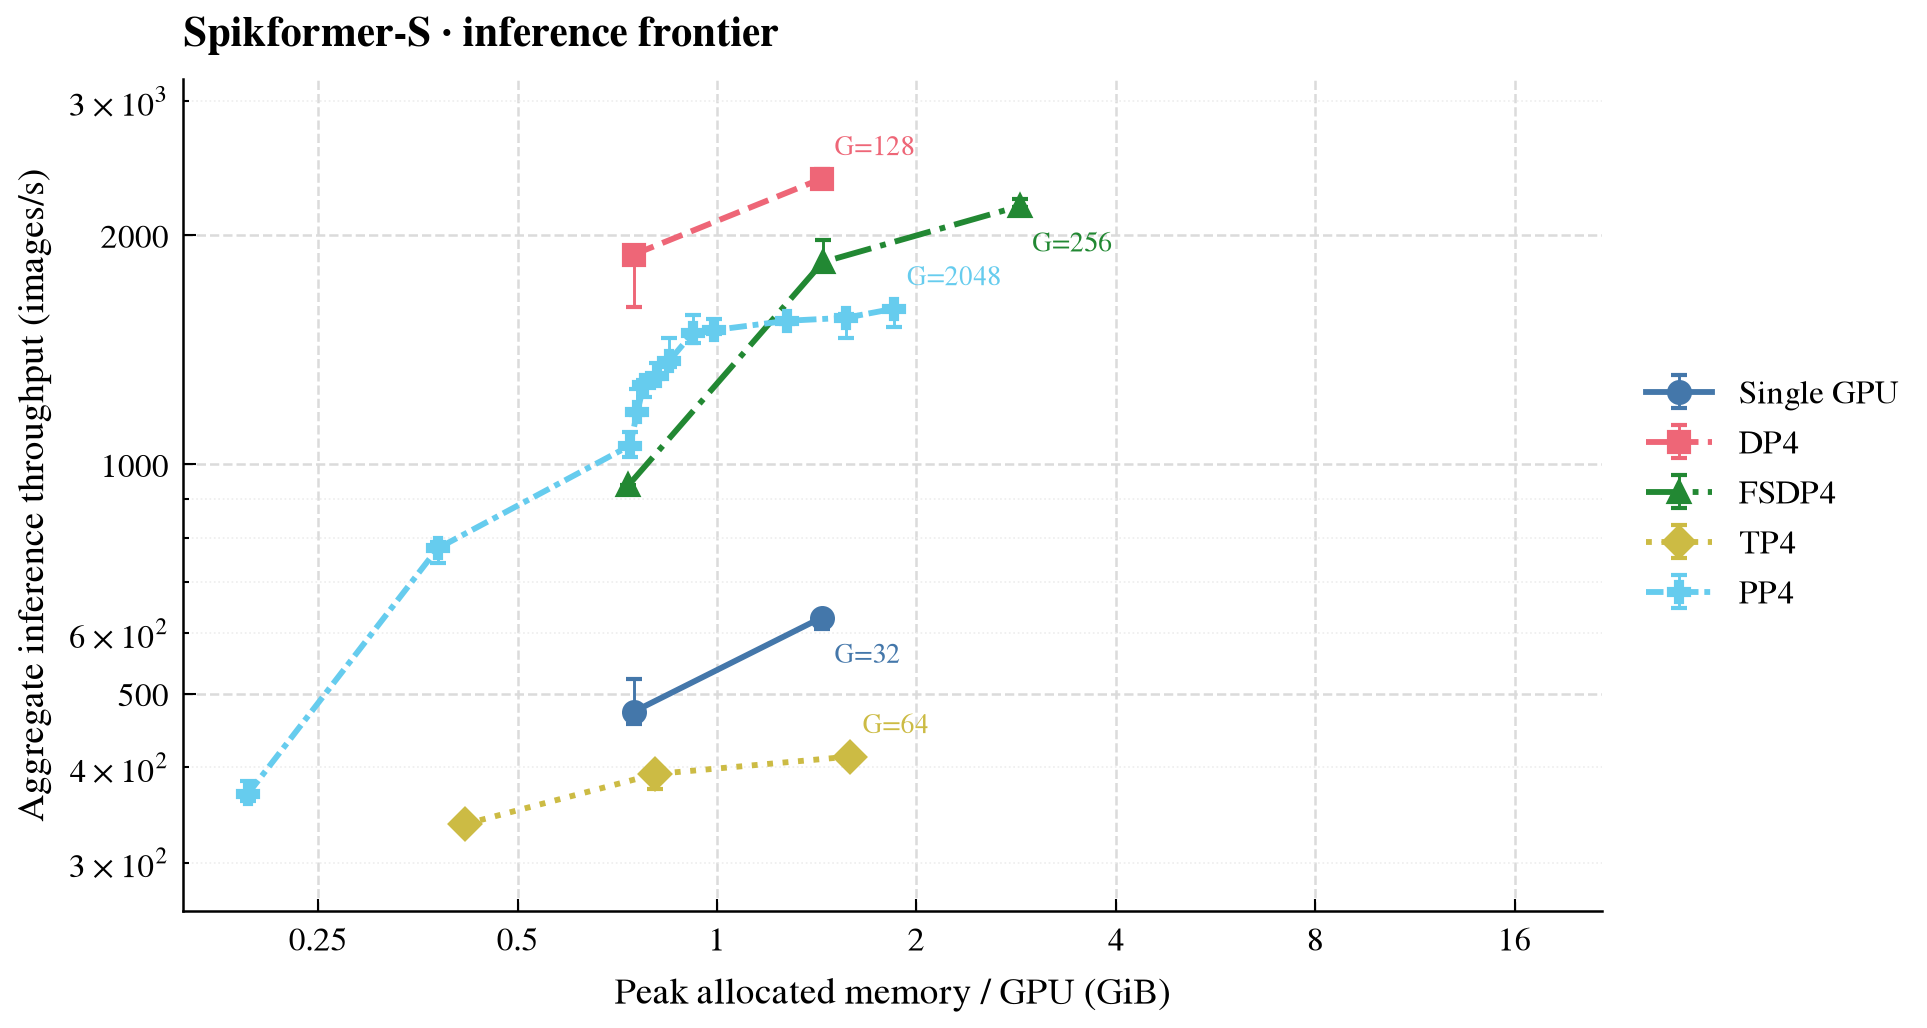
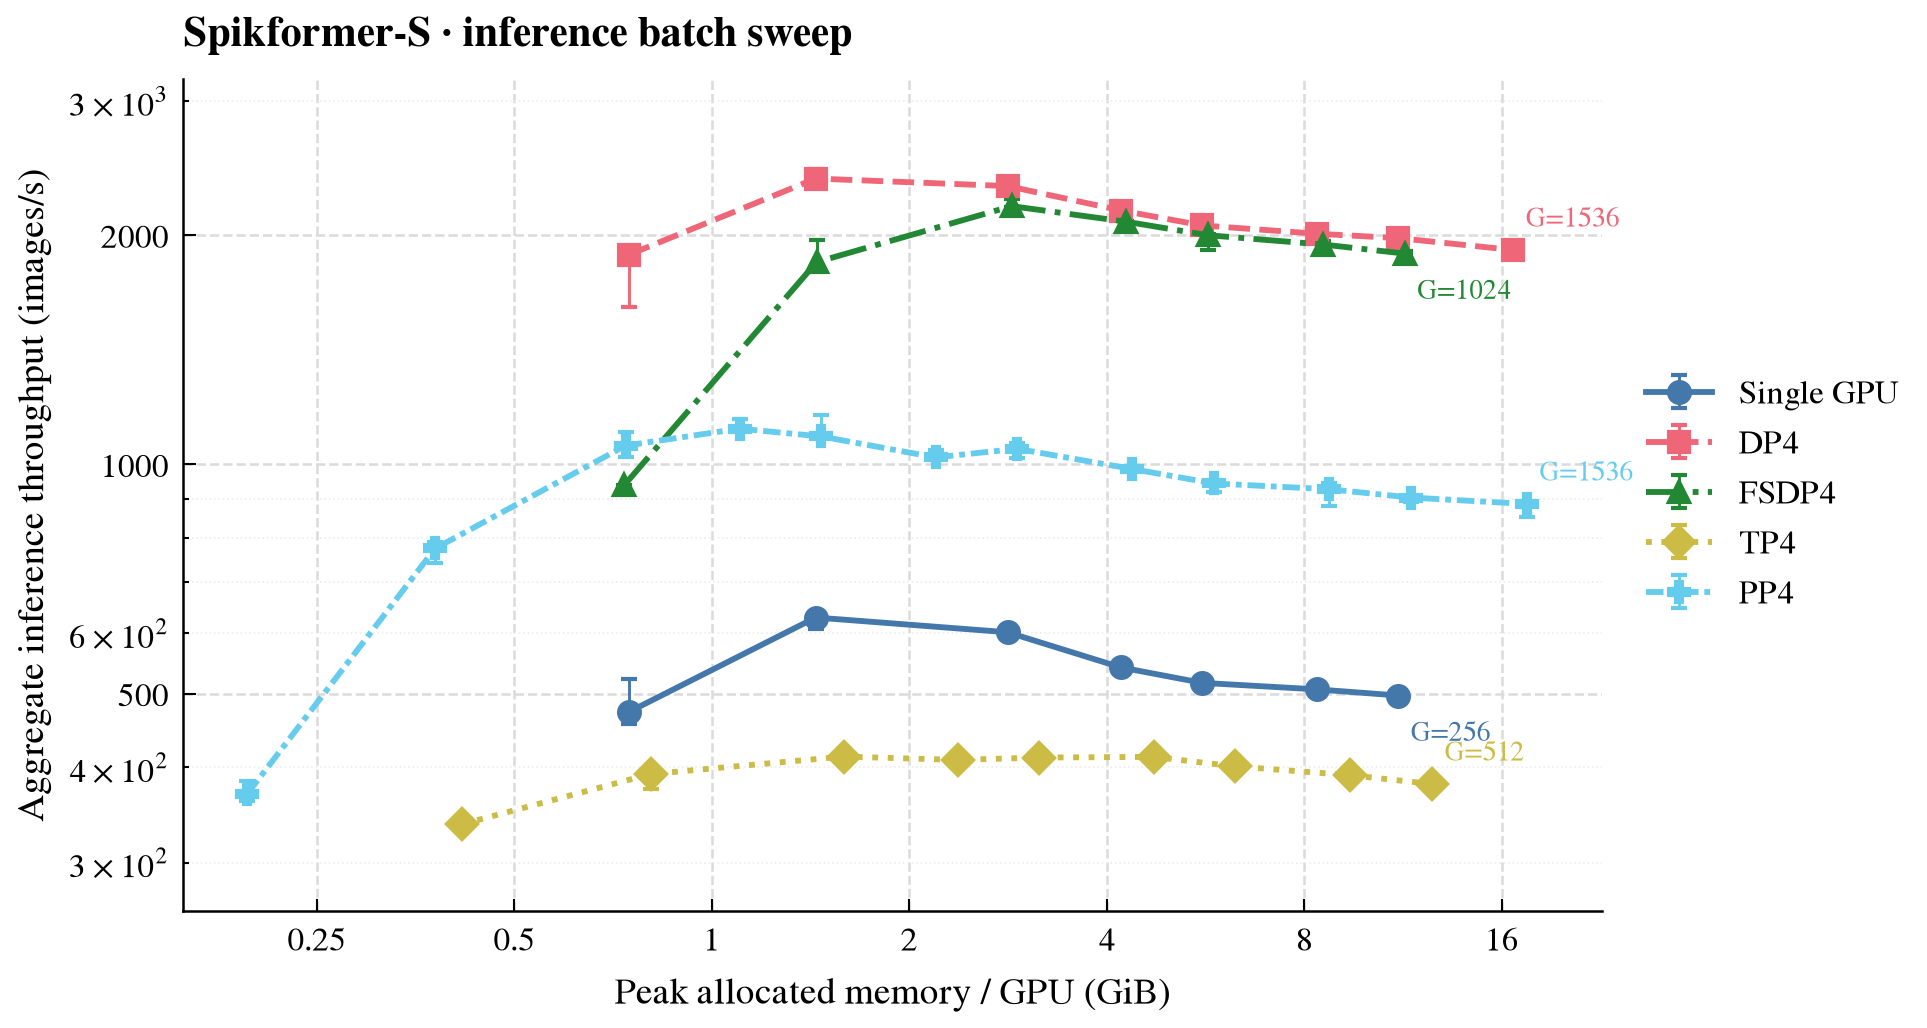
fix(distributed): unify vision pipeline inference sweeps

diff --git a/benchmark/plot_distributed_inference.py b/benchmark/plot_distributed_inference.py
@@ -11,7 +11,7 @@ from statistics import median
 VISION_NAME = re.compile(
     r"(?P<model>sew-resnet34|spikformer)_"
     r"(?P<topology>serial|dp4|fsdp4|tp4|pp4)_"
-    r"b(?P<batch>\d+)_r\d+_optimized"
+    r"b(?P<batch>\d+)_r\d+_optimized(?P<protocol>_k4)?"
 )
 VISION_PROBE_NAME = re.compile(
     r"(?P<model>sew-resnet34|spikformer)_"
@@ -89,7 +89,7 @@ def _vision_topology(topology: str, batch_size: int) -> tuple[int, int, int, int
     data_size = 4 if topology in {"dp4", "fsdp4"} else 1
     tensor_size = 4 if topology == "tp4" else 1
     pipeline_size = 4 if topology == "pp4" else 1
-    microbatches = max(4, batch_size // 16) if pipeline_size > 1 else 1
+    microbatches = 4 if pipeline_size > 1 else 1
     return data_size, tensor_size, pipeline_size, microbatches
 
 
@@ -131,6 +131,8 @@ def _load_vision(results: Path) -> list[dict]:
         match = VISION_NAME.fullmatch(log.stem)
         if match is None:
             continue
+        if match["topology"] == "pp4" and match["protocol"] is None:
+            continue
         status = int(Path(f"{log}.status").read_text().strip())
         text = log.read_text(encoding="utf-8")
         metrics = (
@@ -147,11 +149,7 @@ def _load_vision(results: Path) -> list[dict]:
         completed = [metrics for status, metrics, _ in runs if status == 0]
         status_codes = [status for status, _, _ in runs]
         if len(completed) == 3:
-            status = (
-                "capacity_probe_completed"
-                if topology == "pp4" and batch_size >= 4096
-                else "completed"
-            )
+            status = "completed"
         elif completed:
             status = "unstable"
         elif any(
@@ -185,12 +183,8 @@ def _load_vision(results: Path) -> list[dict]:
             "throughput_unit": "images/s",
             "memory_metric": "cuda_peak_allocated",
             "notes": (
-                (
-                    "one measured batch; no warmup; "
-                    if topology == "pp4" and batch_size >= 4096
-                    else "five warmup and ten measured batches; "
-                )
-                + f"exit statuses: {','.join(map(str, sorted(status_codes)))}"
+                "five warmup and ten measured batches; "
+                f"exit statuses: {','.join(map(str, sorted(status_codes)))}"
             ),
         }
         if len(completed) == 3:
@@ -213,7 +207,7 @@ def _load_vision(results: Path) -> list[dict]:
         rows.append(row)
     for log in (results / "vision").glob("*_probe.log"):
         match = VISION_PROBE_NAME.fullmatch(log.stem)
-        if match is None:
+        if match is None or match["topology"] == "pp4":
             continue
         exit_status = int(Path(f"{log}.status").read_text().strip())
         text = log.read_text(encoding="utf-8")
@@ -487,13 +481,13 @@ def _plot_vision(rows: list[dict], output: Path) -> None:
         ):
             figure, axis = plt.subplots(figsize=(6.1, 3.6))
             for index, topology in enumerate(TOPOLOGY_ORDER):
-                points = _pareto_frontier(
-                    [
+                points = sorted(
+                    (
                         row
                         for row in model_rows
                         if row["topology"] == topology and row["status"] == "completed"
-                    ],
-                    memory_resolution_gib=0.001,
+                    ),
+                    key=lambda row: row["global_batch_size"],
                 )
                 lines = axis.errorbar(
                     [point["peak_memory_gib_median"] for point in points],
@@ -535,7 +529,7 @@ def _plot_vision(rows: list[dict], output: Path) -> None:
             axis.set_xlabel("Peak allocated memory / GPU (GiB)")
             axis.set_ylabel("Aggregate inference throughput (images/s)")
             axis.set_title(
-                f"{model} · inference frontier",
+                f"{model} · inference batch sweep",
                 loc="left",
                 fontweight="bold",
                 pad=8,

diff --git a/test/activation_based/test_distributed_inference.py b/test/activation_based/test_distributed_inference.py
@@ -8,7 +8,11 @@ import pytest
 import torch
 from torch.utils.data import Dataset
 
-from benchmark.plot_distributed_inference import _load_sglang, _pareto_frontier
+from benchmark.plot_distributed_inference import (
+    _load_sglang,
+    _pareto_frontier,
+    _vision_topology,
+)
 from benchmark.snn_llm.spikelm import SpikeLMConfig
 from spikingjelly.activation_based.distributed.llm import (
     EvaluationConfig,
@@ -45,6 +49,11 @@ def test_inference_plot_uses_pareto_frontier():
     ]
 
     assert _pareto_frontier(points) == [points[1], points[4]]
+
+
+@pytest.mark.parametrize("batch_size", [16, 64, 96, 512, 2048])
+def test_vision_pipeline_benchmark_fixes_microbatch_count(batch_size):
+    assert _vision_topology("pp4", batch_size) == (1, 1, 4, 4)
 
 
 def test_sglang_plot_accepts_seven_repeat_median(tmp_path):

diff --git a/docs/source/tutorials/en/distributed_training.rst b/docs/source/tutorials/en/distributed_training.rst
@@ -869,20 +869,15 @@ Triton 3.4.0.
 Vision used BF16, ``T=4``, 1000 classes, and cached 224 x 224 synthetic images.
 The non-PP SEW-ResNet34 per-rank grid is
 ``16, 32, 64, 96, 128, 192, 256, 384, 512, 768, 1024``; Spikformer-S stops
-between 384 and 1024 according to OOM. PP4 also measures ``1536, 2048`` and then
-uses single-batch probes for its capacity boundary. Each successful throughput
+between 384 and 1024 according to OOM. PP4 fixes K=4. The SEW-ResNet34 L grid is
+``16, 32, 64, 96, 128, 192, 256, 384, 512, 768, 1024, 1536, 2048, 3072``;
+Spikformer-S follows the same grid through ``1536``. Each successful throughput
 point starts in a fresh process and uses four
 DataLoader workers, runs five untimed batches and ten measured batches, and is repeated independently three
 times. Timing includes H2D, forward, communication, and metric reduction but
-excludes DataLoader work, model/artifact loading, and initialization. The plots
-show medians and complete ranges. Only three-run points from the regular
-protocol participate in the throughput-memory Pareto frontiers.
-For the PP4 capacity tail at ``L >= 4096``, one high-level batch already contains
-at least 256 pipeline microbatches. Each fresh process therefore measures one
-batch without an additional warmup, while retaining three independent process
-runs. CSV notes/status distinguish these points from the regular throughput
-segment; they remain capacity-table evidence and are not connected to the
-formal throughput lines.
+excludes DataLoader work, model/artifact loading, and initialization. Each plot
+connects every three-run point from one protocol and shows its median and full
+range; it applies neither Pareto point removal nor artificial smoothing.
 This section uses ``L`` for the local batch on each DP rank/replica and ``G``
 for the whole-job global batch. Always ``G = L × DP``; TP, PP, CP, and SNN time
 steps ``T`` do not multiply G. PP additionally uses ``K`` for the number of
@@ -903,36 +898,36 @@ work accumulation. SEW downsampling blocks sit before stage boundaries, while
 Spikformer distributes blocks as ``0/2/2/2``. In the public configuration,
 ``pipeline_microbatches`` is the number of chunks cut from one DP rank's local
 batch. It defaults to one, requires divisibility, and gives
-``samples per chunk = batch_size / pipeline_microbatches``. The Vision
-benchmark alone sets it to 4 for ``L < 64`` and to ``L / 16`` otherwise,
-keeping 16 images per
-pipeline microbatch at large B. The framework does not silently apply this rule
+``samples per chunk = batch_size / pipeline_microbatches``. Both Vision and
+MCore PP benchmarks fix ``pipeline_microbatches = 4``. Each chunk therefore
+grows proportionally as ``L / 4`` until CUDA OOM. The framework does not
+silently apply this rule
 to user calls. The summary CSV records ``per_rank_batch_size``,
 ``global_batch_size``, ``pipeline_microbatches``, and
 ``pipeline_microbatch_size`` separately.
-Vision uses exact-memory Pareto frontiers for regular-protocol points. SGLang
-frontier lines merge measurements within the same 0.05-GiB horizontal bin and
-retain its highest throughput. MCore instead connects every successful
-batch-sweep point through OOM. The CSV keeps exact, unquantized memory and every
-measurement for all three cases.
+The SGLang scheduler does not expose a pipeline-microbatch control, so its lines
+still use 0.05-GiB Pareto frontiers. Vision and MCore instead connect every
+successful point from their fixed protocol through OOM. The CSV keeps exact,
+unquantized memory and every measurement for all three cases.
 
 .. figure:: ../../_static/tutorials/distributed/sew-resnet34-inference-tradeoff.png
     :width: 720px
     :alt: SEW-ResNet34 distributed evaluation throughput and per-GPU peak memory
 
-    SEW-ResNet34 regular-protocol aggregate evaluation throughput-memory Pareto frontiers.
+    Complete SEW-ResNet34 batch sweeps with PP K fixed at 4.
 
 .. figure:: ../../_static/tutorials/distributed/spikformer-inference-tradeoff.png
     :width: 720px
     :alt: Spikformer-S distributed evaluation throughput and per-GPU peak memory
 
-    Spikformer-S regular-protocol aggregate evaluation throughput-memory Pareto frontiers.
+    Complete Spikformer-S batch sweeps with PP K fixed at 4.
 
 At per-rank batch 128, SEW-ResNet34 reaches 845.7, 3368.9, 3109.3, 548.3, and
-1404.1 images/s on one GPU, DP4, FSDP4, TP4, and PP4. Spikformer-S reaches
-516.6, 2060.4, 2000.2, 412.2, and 1273.1 images/s. DP/FSDP approach linear
-four-GPU throughput. PP reaches 1.66x and 2.46x single-GPU throughput and then
-enters a stable large-batch plateau.
+1320.9 images/s on one GPU, DP4, FSDP4, TP4, and PP4. Spikformer-S reaches
+516.6, 2060.4, 2000.2, 412.2, and 1088.5 images/s. DP/FSDP approach linear
+four-GPU throughput. PP reaches 1.56x and 2.11x single-GPU throughput. With K
+fixed, PP peaks at a medium batch and then moves smoothly into its capacity tail
+as per-chunk samples and memory continue to grow.
 
 Pure TP4 remains below one GPU but is now stable; this is a model
 compute-to-communication limit rather than scheduler variance. SEW executes 16
@@ -966,8 +961,8 @@ throughput.
       - 768/768: sustained multi-batch CUDA OOM
     * - SEW-ResNet34
       - PP4
-      - 32768/32768
-      - 49152/49152: runtime timeout
+      - 3072/3072
+      - 4096/4096: CUDA OOM
     * - Spikformer-S
       - One GPU
       - 256/256
@@ -986,8 +981,8 @@ throughput.
       - 768/768: CUDA OOM
     * - Spikformer-S
       - PP4
-      - 32768/32768
-      - 49152/49152: runtime timeout
+      - 1536/1536
+      - 2048/2048: CUDA OOM
 
 Vision correctness tests also covered FSDP2, PP2, and exporting a TP2 x PP2
 training checkpoint before restoring it under TP1 x DP4. The latter reported
